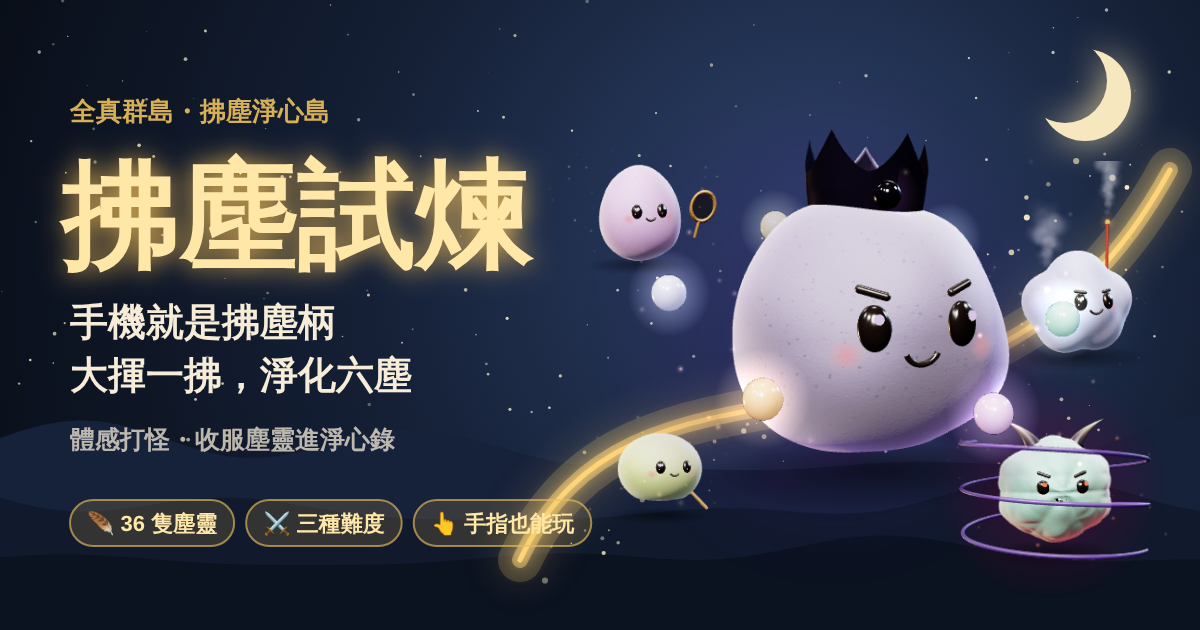
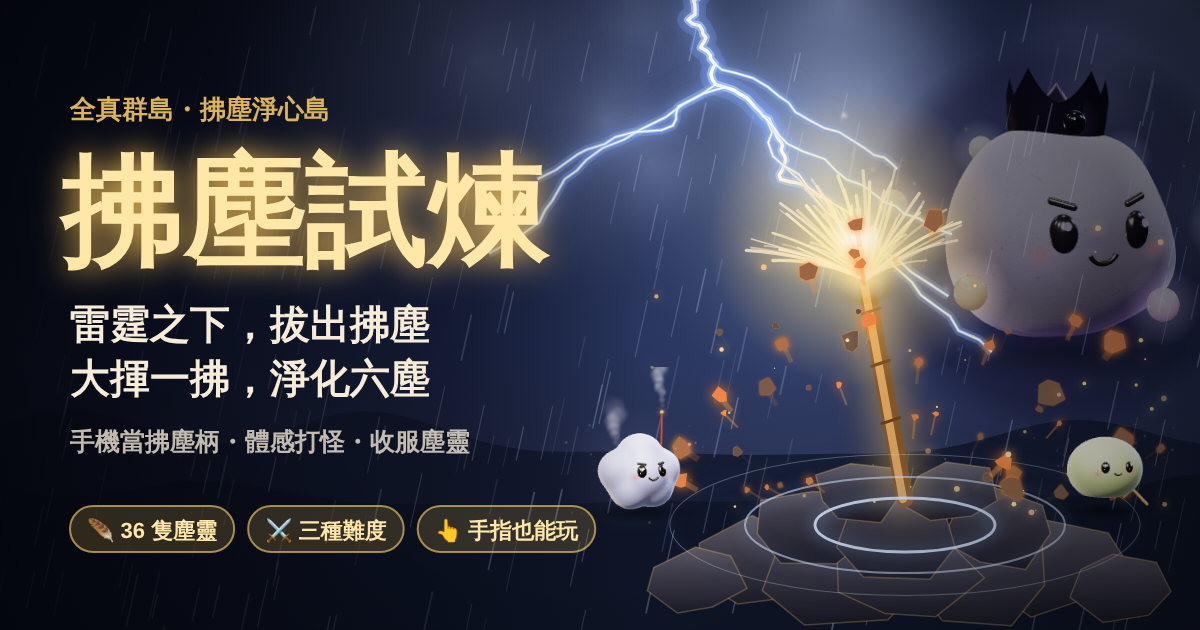
群島 v261111.02：拂塵試煉全新史詩級分享預覽圖
Claude-Session: https://claude.ai/code/session_01CYjxtAJEbe8aNJZsdY8jB5

diff --git a/islands/fuchen-game/index.html b/islands/fuchen-game/index.html
@@ -19,12 +19,12 @@
 <meta property="og:title" content="大揮一拂，淨化六塵｜拂塵試煉・全真群島">
 <meta property="og:description" content="手機就是拂塵柄：看清符印、聽到「揮」就整隻手臂大揮一拂，把六塵的塵靈淨化、收進淨心錄。三種難度，沒有動作感測也能用手指畫。">
 <meta property="og:url" content="https://steven4dev.github.io/yiguandao-2027-course/islands/fuchen-game/">
-<meta property="og:image" content="https://steven4dev.github.io/yiguandao-2027-course/islands/fuchen-game/og-fuchen.png?v=2">
-<meta property="og:image:secure_url" content="https://steven4dev.github.io/yiguandao-2027-course/islands/fuchen-game/og-fuchen.png?v=2">
+<meta property="og:image" content="https://steven4dev.github.io/yiguandao-2027-course/islands/fuchen-game/og-fuchen.png?v=3">
+<meta property="og:image:secure_url" content="https://steven4dev.github.io/yiguandao-2027-course/islands/fuchen-game/og-fuchen.png?v=3">
 <meta property="og:image:type" content="image/png">
 <meta property="og:image:width" content="1200">
 <meta property="og:image:height" content="630">
-<meta property="og:image:alt" content="拂塵試煉：無明塵王和幾隻 3D 塵靈，一道金色的拂塵光痕劃過夜空">
+<meta property="og:image:alt" content="拂塵試煉：雷霆擊中插在岩堆裡的拂塵，碎石四散，無明塵王在雷雲中俯視">
 <meta property="og:locale" content="zh_TW">
 <meta name="twitter:card" content="summary_large_image">
 <style>
@@ -255,7 +255,7 @@ body[data-phase="count"] .hud,body[data-phase="count"] .bottom{opacity:.3}
 
 <script>
 'use strict';
-const VERSION = 'v261109.34';
+const VERSION = 'v261111.01';
 const D2R = Math.PI / 180, R2D = 180 / Math.PI;
 const $ = s => document.querySelector(s);
 $('#ver').textContent = '拂塵試煉 ' + VERSION;

diff --git a/islands/index.html b/islands/index.html
@@ -696,7 +696,7 @@ body.fcT-hide .card,body.fcT-hide .dock,body.fcT-hide #navPop,body.fcT-hide .tag
   <p class="count hits-count" id="hitsLine">👣 已經有 <img id="hitsImg" alt="累計造訪人次" height="18" src="https://hits.sh/steven4dev.github.io/yiguandao-2027-course/islands.svg?style=flat-square&amp;label=%E4%BA%BA%E6%AC%A1&amp;color=d9a43a&amp;labelColor=3a3f5a" onerror="this.parentNode.hidden = true"> 來逛過群島</p>
   <div class="boards"><a class="board" href="https://forms.gle/PG7yAsyz1r4unXXZ8" target="_blank" rel="noopener">🛶 我要登島</a><button class="board board-visit" id="visitBtn" type="button">👀 我要觀摩</button></div>
   <span class="status" id="status" data-state="backup" role="button" tabindex="0" title="點一下重新讀取"><i></i><span id="statusText">讀取資料中…</span></span>
-  <span class="ver">v261111.01</span>
+  <span class="ver">v261111.02</span>
   </div></div>
 </div>
 

diff --git a/islands/CHANGELOG.md b/islands/CHANGELOG.md
@@ -3,6 +3,9 @@
 網頁左上角品牌卡最下面的淡色小字就是版本編號，格式跟褪下仙衣一樣是 `v年月日.當天第幾版`，例如 `v261025.01` 代表 2026/10/25 的第 1 版。
 打開網頁看到的編號和這裡最上面的一筆相同，就代表已經更新成功；如果還是舊編號，等幾分鐘再重新整理。
 
+## v261111.02
+- 🖼 拂塵試煉的分享預覽圖（LINE、FB 貼連結時看到的圖）全新設計：雷雲夜雨中，閃電劈中插在岩堆裡的拂塵，拂塵發出暖金光、碎石四散、貼地漣漪擴散，無明塵王在雷雲中俯視；與進島轉場的畫面一致。預覽圖網址的 `?v=` 加到 3，LINE 才會抓新圖（已經分享過的舊訊息可能要等快取更新）。
+
 ## v261111.01
 - 🪶 **拂塵淨心島正式開放**：一般玩家不用測試碼，就能看到島上的拂塵、進入拂塵試煉；島名標籤從「🚧 施工中」改為「拂塵淨心島 🎮」，施工圍籬與告示牌拿掉。
   - 要重新封起來，把 `FC_LIVE` 改回 `false` 即可；測試碼 `?fuchen=` 仍可使用。
